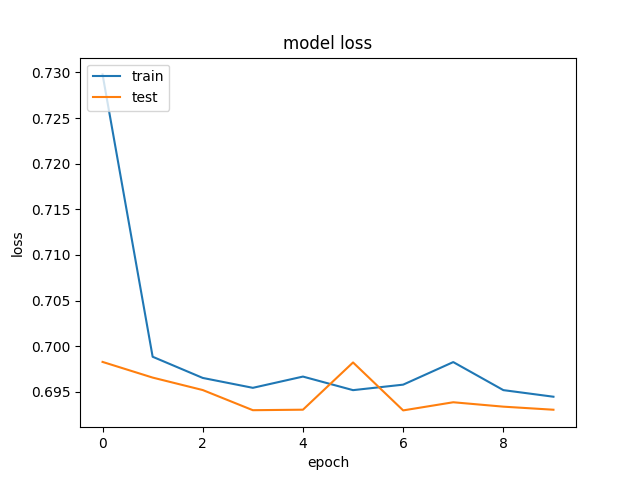
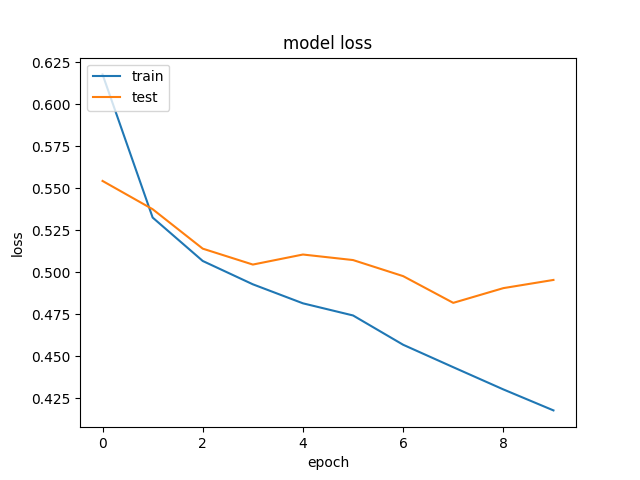
optimalizations nn and preprocessing

diff --git a/tweet_sentiment/tweet_sent_predict.py b/tweet_sentiment/tweet_sent_predict.py
@@ -49,7 +49,7 @@ def preprocess_text(sen):
     return sentence
 
 # https://www.kaggle.com/kazanova/sentiment140
-dataset = pd.read_csv("/home/mati/nlpmgr/tweet_sentiment/training.1600000.processed.noemoticon.csv",
+dataset = pd.read_csv("/home/mati/nlp_mgr/tweet_sentiment/training.1600000.processed.noemoticon.csv",
                          header=None,
                          skiprows=790000, nrows=20000,
                         #  skiprows=500000, nrows=600000,
@@ -99,110 +99,10 @@ for sen in X1_test_sentences:
 
 X1_test_clean = list(X1_test)
 
-maxlen = 100
-""" Keras Tokenizer """
-tokenizer = Tokenizer(num_words=10000)
-tokenizer.fit_on_texts(X1_train)
-# print(tokenizer.word_index)
-X1_train = tokenizer.texts_to_sequences(X1_train)
-X1_test = tokenizer.texts_to_sequences(X1_test)
-vocab_size = len(tokenizer.word_index) + 1
-
-X1_train = pad_sequences(X1_train, padding='post', maxlen=maxlen)
-X1_test = pad_sequences(X1_test, padding='post', maxlen=maxlen)
-
-""" TreebankWordTokenizer NLTK """
-"""
-word_index = 1
-nltk_tokenizer_word_dict = {}
-X3_train = []
-X3_test = []
-for sen in X1_train_clean:
-    sentence_seq = []
-    sen_tokens = word_tokenize(sen)
-    for token in sen_tokens:
-        if token not in nltk_tokenizer_word_dict:
-            nltk_tokenizer_word_dict[token] = word_index
-            word_index += 1
-
-        sentence_seq.append(nltk_tokenizer_word_dict[token])
-    X3_train.append(sentence_seq)
-
-vocab_size_3 = len(nltk_tokenizer_word_dict) + 1
-
-unknown_words_in_test = set()
-all_words_in_test = set()
-for sen in X1_test_clean:
-    sentence_seq = []
-    sen_tokens = word_tokenize(sen)
-    for token in sen_tokens:
-        all_words_in_test.add(token)
-        try:
-            sentence_seq.append(nltk_tokenizer_word_dict[token])
-        except:
-            unknown_words_in_test.add(token)
-            # jesli nie znam słowa nic nie dodaje
-    X3_test.append(sentence_seq)
-
-print("Ilość unik. nauczonych słów z train:", len(all_words_in_test))
-print("Nieznane słowa z test:", len(unknown_words_in_test))
-# sys.exit(0)
-"""
-######################
-
-
-""" TweetTokenizer NLTK """
-word_index = 1
-tweet_tokenizer_word_dict = {}
-X2_train = []
-X2_test = []
-tweettokenizer = TweetTokenizer(strip_handles=True, reduce_len=True)
-for sen in X1_train_clean:
-    sentence_seq = []
-    sen_tokens = tweettokenizer.tokenize(sen)
-    for token in sen_tokens:
-        if token not in tweet_tokenizer_word_dict:
-            tweet_tokenizer_word_dict[token] = word_index
-            word_index += 1
-
-        sentence_seq.append(tweet_tokenizer_word_dict[token])
-    X2_train.append(sentence_seq)
-
-vocab_size_2 = len(tweet_tokenizer_word_dict) + 1
-print(tweet_tokenizer_word_dict)
-
-unknown_words_in_test = set()
-all_words_in_test = set()
-for sen in X1_test_clean:
-    sentence_seq = []
-    sen_tokens = tweettokenizer.tokenize(sen)
-    for token in sen_tokens:
-        all_words_in_test.add(token)
-        try:
-            sentence_seq.append(tweet_tokenizer_word_dict[token])
-        except:
-            unknown_words_in_test.add(token)
-            # jesli nie znam słowa nic nie dodaje
-    X2_test.append(sentence_seq)
-
-print("Ilość unik. nauczonych słów z train:", len(all_words_in_test))
-print("Nieznane słowa z test:", len(unknown_words_in_test))
-# sys.exit(0)
-########################
-
-
-# print("Word Dict : ",tweet_tokenizer_word_dict[:50])
-# print("Word seq : ",word_seq)
-
-X2_train = pad_sequences(X2_train, padding='post', maxlen=maxlen)
-X2_test = pad_sequences(X2_test, padding='post', maxlen=maxlen)
-
-# X3_train = pad_sequences(X3_train, padding='post', maxlen=maxlen)
-# X3_test = pad_sequences(X3_test, padding='post', maxlen=maxlen)
 
 embeddings_dictionary = dict()
 # http://nlp.stanford.edu/data/wordvecs/glove.twitter.27B.zip
-glove_file = open('/home/mati/nlpmgr/glove/glove.twitter.27B/glove.twitter.27B.100d.txt', encoding="utf8")
+glove_file = open('/home/mati/nlp_mgr/glove/glove.twitter.27B/glove.twitter.27B.100d.txt', encoding="utf8")
 for line in glove_file:
     records = line.split()
     word = records[0]
@@ -211,55 +111,165 @@ for line in glove_file:
 
 glove_file.close()
 
+maxlen = 50
+chosen_tokenizer = 'tbwt'
+if chosen_tokenizer == 'keras':
+    """ Keras Tokenizer """
+    # """
+    tokenizer = Tokenizer(num_words=10000)
+    tokenizer.fit_on_texts(X1_train)
+    # print(tokenizer.word_index)
+    X1_train = tokenizer.texts_to_sequences(X1_train)
+    X1_test = tokenizer.texts_to_sequences(X1_test)
+    vocab_size = len(tokenizer.word_index) + 1
 
-# """ Keras tokenizer embedding """
-# embedding_matrix = zeros((vocab_size, 100))
-# for word, index in tokenizer.word_index.items():
-#     embedding_vector = embeddings_dictionary.get(word)
-#     if embedding_vector is not None:
-#         embedding_matrix[index] = embedding_vector
+    X1_train = pad_sequences(X1_train, padding='post', maxlen=maxlen)
+    X1_test = pad_sequences(X1_test, padding='post', maxlen=maxlen)
+
+    """ Keras tokenizer embedding """
+    embedding_matrix = zeros((vocab_size, 100))
+    for word, index in tokenizer.word_index.items():
+        embedding_vector = embeddings_dictionary.get(word)
+        if embedding_vector is not None:
+            embedding_matrix[index] = embedding_vector
+
+    ###########
+    # """
+elif chosen_tokenizer == 'tbwt':
+    """ TreebankWordTokenizer NLTK """
+    word_index = 1
+    nltk_tokenizer_word_dict = {}
+    X3_train = []
+    X3_test = []
+    for sen in X1_train_clean:
+        sentence_seq = []
+        sen_tokens = word_tokenize(sen)
+        for token in sen_tokens:
+            if token not in nltk_tokenizer_word_dict:
+                nltk_tokenizer_word_dict[token] = word_index
+                word_index += 1
+
+            sentence_seq.append(nltk_tokenizer_word_dict[token])
+        X3_train.append(sentence_seq)
+
+    vocab_size_3 = len(nltk_tokenizer_word_dict) + 1
+
+    unknown_words_in_test = set()
+    all_words_in_test = set()
+    for sen in X1_test_clean:
+        sentence_seq = []
+        sen_tokens = word_tokenize(sen)
+        for token in sen_tokens:
+            all_words_in_test.add(token)
+            try:
+                sentence_seq.append(nltk_tokenizer_word_dict[token])
+            except:
+                unknown_words_in_test.add(token)
+                # jesli nie znam słowa nic nie dodaje
+        X3_test.append(sentence_seq)
+
+    print("Ilość unik. nauczonych słów z train:", len(all_words_in_test))
+    print("Nieznane słowa z test:", len(unknown_words_in_test))
+
+    X3_train = pad_sequences(X3_train, padding='post', maxlen=maxlen)
+    X3_test = pad_sequences(X3_test, padding='post', maxlen=maxlen)
 
 
-""" TweetTokenizer embedding """
-embedding_matrix_2 = zeros((vocab_size_2, 100))
-for word, index in tweet_tokenizer_word_dict.items():
-    embedding_vector = embeddings_dictionary.get(word)
-    if embedding_vector is not None:
-        embedding_matrix_2[index] = embedding_vector
+    """ TreeBankTokenizer embedding """
+    embedding_matrix_3 = zeros((vocab_size_3, 100))
+    for word, index in nltk_tokenizer_word_dict.items():
+        embedding_vector = embeddings_dictionary.get(word)
+        if embedding_vector is not None:
+            embedding_matrix_3[index] = embedding_vector
 
-print(len(embedding_matrix_2))
-sys.exit(0)
 
-# """ TweetTokenizer embedding """
-# embedding_matrix_3 = zeros((vocab_size_3, 100))
-# for word, index in nltk_tokenizer_word_dict.items():
-#     embedding_vector = embeddings_dictionary.get(word)
-#     if embedding_vector is not None:
-#         embedding_matrix_3[index] = embedding_vector
+    # sys.exit(0)
+    ######################
+elif chosen_tokenizer == 'tt':
+
+    """ TweetTokenizer NLTK """
+    word_index = 1
+    tweet_tokenizer_word_dict = {}
+    X2_train = []
+    X2_test = []
+    tweettokenizer = TweetTokenizer(strip_handles=True, reduce_len=True)
+    for sen in X1_train_clean:
+        sentence_seq = []
+        sen_tokens = tweettokenizer.tokenize(sen)
+        for token in sen_tokens:
+            if token not in tweet_tokenizer_word_dict:
+                tweet_tokenizer_word_dict[token] = word_index
+                word_index += 1
+
+            sentence_seq.append(tweet_tokenizer_word_dict[token])
+        X2_train.append(sentence_seq)
+
+    vocab_size_2 = len(tweet_tokenizer_word_dict) + 1
+    # print(tweet_tokenizer_word_dict)
+
+    unknown_words_in_test = set()
+    all_words_in_test = set()
+    for sen in X1_test_clean:
+        sentence_seq = []
+        sen_tokens = tweettokenizer.tokenize(sen)
+        for token in sen_tokens:
+            all_words_in_test.add(token)
+            try:
+                sentence_seq.append(tweet_tokenizer_word_dict[token])
+            except:
+                unknown_words_in_test.add(token)
+                # jesli nie znam słowa nic nie dodaje
+        X2_test.append(sentence_seq)
+
+    print("Ilość unik. nauczonych słów z train:", len(all_words_in_test))
+    print("Nieznane słowa z test:", len(unknown_words_in_test))
+    X2_train = pad_sequences(X2_train, padding='post', maxlen=maxlen)
+    X2_test = pad_sequences(X2_test, padding='post', maxlen=maxlen)
+
+
+    """ TweetTokenizer embedding """
+    embedding_matrix_2 = zeros((vocab_size_2, 100))
+    for word, index in tweet_tokenizer_word_dict.items():
+        embedding_vector = embeddings_dictionary.get(word)
+        if embedding_vector is not None:
+            embedding_matrix_2[index] = embedding_vector
+
+    # print(len(embedding_matrix_2))
+    # sys.exit(0)
 
 
 """
     NN Model 1 input
 """
 deep_inputs = Input(shape=(maxlen,))
-# embedding_layer = Embedding(vocab_size, 100, weights=[embedding_matrix], trainable=False)(deep_inputs)
-embedding_layer = Embedding(vocab_size_2, 100, weights=[embedding_matrix_2], trainable=False)(deep_inputs)
-# embedding_layer = Embedding(vocab_size_3, 100, weights=[embedding_matrix_3], trainable=False)(deep_inputs)
+if chosen_tokenizer == 'keras':
+    embedding_layer = Embedding(vocab_size, 100, weights=[embedding_matrix], trainable=False)(deep_inputs)
+elif chosen_tokenizer == 'tt':
+    embedding_layer = Embedding(vocab_size_2, 100, weights=[embedding_matrix_2], trainable=False)(deep_inputs)
+elif chosen_tokenizer == 'tbwt':
+    embedding_layer = Embedding(vocab_size_3, 100, weights=[embedding_matrix_3], trainable=False)(deep_inputs)
 
 LSTM_Layer_1 = LSTM(128)(embedding_layer)
 dense_layer_1 = Dense(2, activation='softmax')(LSTM_Layer_1)
 model = Model(inputs=deep_inputs, outputs=dense_layer_1)
-
+# RELU
+# backpropagation
+# stochasting descent
+# loss function
+# dropout - technika regulacyjna
 model.compile(loss='categorical_crossentropy', optimizer='adam', metrics=['acc'])
 print(model.summary())
 
 plot_model(model, to_file='model_plot1.png', show_shapes=True, show_layer_names=True)
-# history = model.fit(X1_train, y_train, batch_size=128, epochs=10, verbose=1, validation_split=0.2)
-# score = model.evaluate(X1_test, y_test, verbose=1)
-history = model.fit(X2_train, y_train, batch_size=128, epochs=10, verbose=1, validation_split=0.2)
-score = model.evaluate(X2_test, y_test, verbose=1)
-# history = model.fit(X3_train, y_train, batch_size=128, epochs=10, verbose=1, validation_split=0.2)
-# score = model.evaluate(X3_test, y_test, verbose=1)
+if chosen_tokenizer == 'keras':
+    history = model.fit(X1_train, y_train, batch_size=128, epochs=10, verbose=1, validation_split=0.2)
+    score = model.evaluate(X1_test, y_test, verbose=1)
+elif chosen_tokenizer == 'tt':
+    history = model.fit(X2_train, y_train, batch_size=128, epochs=10, verbose=1, validation_split=0.2)
+    score = model.evaluate(X2_test, y_test, verbose=1)
+elif chosen_tokenizer == 'tbwt':
+    history = model.fit(X3_train, y_train, batch_size=128, epochs=10, verbose=1, validation_split=0.2)
+    score = model.evaluate(X3_test, y_test, verbose=1)
 
 print("Test Score:", score[0])
 print("Test Accuracy:", score[1])
